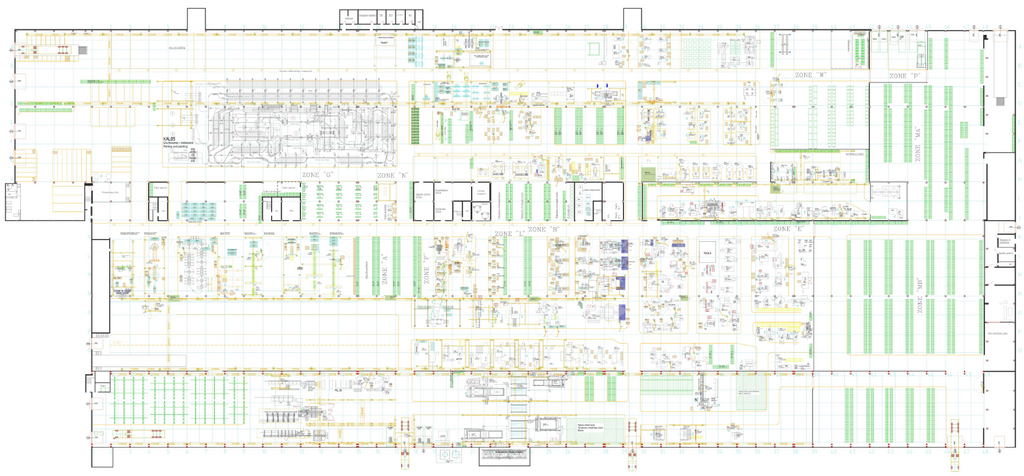
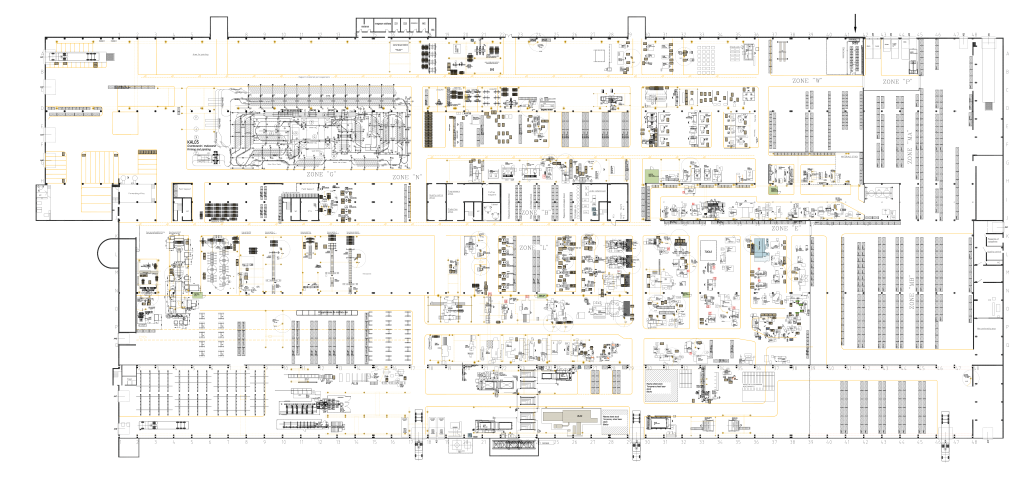
geolook map gone auto!:)

diff --git a/src/main/resources/templates/geolook/map.html b/src/main/resources/templates/geolook/map.html
@@ -6,13 +6,30 @@
 </head>
 <body>
 	<div layout:fragment="script">
-		<!-- SELECTIZE JS -->
-		<script th:src="@{/selectize/js/selectize.min.js}"
-			type="text/javascript"></script>
+	<script type="text/javascript" th:src="@{/js/url.helper.js}"></script>
 		<script>
-			//$('#x3users').selectize();
+		 /*$(document).ready(function() {
+
+	            $(".hoverButton").hover(
+	               function (e) {
+	            	  $("#imageAreaImage").attr("src", getAppUrl() + "/images/map/"+ e.target.id + ".png");
+	               }, 
+					
+	               function (e) {
+	            	   $("#imageAreaImage").attr("src", getAppUrl() + "/images/map/_main_map.png");
+	            	 //  $("#imageArea").css({"background-color":"black"});
+	               }
+	            );
+					
+	         });
+		 */
+		 
+		 function switchImg(id) {
+			$("#imageAreaImage").attr("src", getAppUrl() + "/images/map/"+ id + ".png");		
+		};
 		</script>
 	</div>
+	
 	<div layout:fragment="content">
 	<!-- TITLE -->
 		<div class="row">
@@ -30,133 +47,15 @@
 		</div>
 	<!-- /TITLE -->	
 			<div id="mapModuleContainer">
-				<!-- SHIPMENTS -->
-				<h4 th:text="#{department.shipments}">Category</h4>
-					<span id="J00A" class="btn btn-primary btn-sm margin-bottom-5">
-						<b>J00A</b> - <span th:text="#{department.shipments.warehouse}">Shipments Warehouse</span>
-					</span>					
-					<span id="J00B" class="btn btn-primary btn-sm margin-bottom-5">
-						<b>J00B</b> - <span th:text="#{department.shipments.warehouse}">Shipments Warehouse</span>
-					</span>					
-					<span id="J00C" class="btn btn-primary btn-sm margin-bottom-5">
-						<b>J00C</b> - <span th:text="#{department.outside}">Shipments Warehouse</span>
-					</span>			
-					<span id="YI" class="btn btn-info btn-sm margin-bottom-5">
-						<b>YI</b> - <span th:text="#{department.floor}">Shipments Warehouse</span>
-					</span>			
-			<!-- RECEPTIONS -->
-				<h4 th:text="#{department.receptions}">Category</h4>
-					<span id="P" class="btn btn-primary btn-sm margin-bottom-5">
-						<b>P</b> - <span th:text="#{department.receptions.warehouse}">Receptions Warehouse</span>
-					</span>
-					<span id="S" class="btn btn-primary btn-sm margin-bottom-5">
-						<b>S</b> - <span th:text="#{department.receptions.warehouse}">Receptions Warehouse</span>
-					</span>
-					<span id="N" class="btn btn-primary btn-sm margin-bottom-5">
-						<b>N</b> - <span th:text="#{department.receptions.warehouse}">Receptions Warehouse</span>
-					</span>
-					<span id="Z" class="btn btn-primary btn-sm margin-bottom-5">
-						<b>Z</b> - <span th:text="#{geolook.map.obsolete}">Floor</span>
-					</span>					
-					<span id="XA" class="btn btn-info btn-sm margin-bottom-5">
-						<b>XA</b> - <span th:text="#{department.floor}">Floor</span>
-					</span>		
-					<span id="XB" class="btn btn-info btn-sm margin-bottom-5">
-						<b>XB</b> - <span th:text="#{department.floor}">Floor</span>
-					</span>		
-					<span id="XC" class="btn btn-info btn-sm margin-bottom-5">
-						<b>XC</b> - <span th:text="#{department.floor}">Floor</span>
-					</span>		
-					<span id="XD" class="btn btn-info btn-sm margin-bottom-5">
-						<b>XD</b> - <span th:text="#{department.exchange}">Floor</span>
-					</span>		
-				<!-- PRODUCTION -->
-				<h4  th:text="#{department.production}">Category</h4> 
-					<span id="A" class="btn btn-primary btn-sm margin-bottom-5">
-						<b>A</b> - <span th:text="#{department.axles.assembly}">Production</span>
-					</span>
-					<span id="B" class="btn btn-primary btn-sm margin-bottom-5">
-						<b>B</b> - <span th:text="#{department.driveshafts.assembly}">Production</span>
-					</span>
-					<span id="C" class="btn btn-primary btn-sm margin-bottom-5">
-						<b>C</b> - <span th:text="#{department.presses}">Production</span>
-					</span>
-					<span id="D" class="btn btn-primary btn-sm margin-bottom-5">
-						<b>D</b> - <span th:text="#{department.welding}">Production</span>
-					</span>
-					<span id="E" class="btn btn-primary btn-sm margin-bottom-5">
-						<b>E</b> - <span th:text="#{department.machining}">Production</span>
-					</span>
-					<span id="F" class="btn btn-primary btn-sm margin-bottom-5">
-						<b>F</b> - <span th:text="#{department.axles.assembly}">Production</span>
-					</span>
-					<span id="G" class="btn btn-primary btn-sm margin-bottom-5">
-						<b>G</b> - <span th:text="#{department.axles.assembly}">Production</span>
-					</span>
-					<span id="H" class="btn btn-primary btn-sm margin-bottom-5">
-						<b>H</b> - <span th:text="#{department.suspensions.assembly}">Production</span>
-					</span>
-					<span id="L" class="btn btn-primary btn-sm margin-bottom-5">
-						<b>L</b> - <span th:text="#{department.driveshafts.assembly}">Production</span>
-					</span>
-					<span id="O" class="btn btn-primary btn-sm margin-bottom-5">
-						<b>O</b> - <span th:text="#{department.presses}">Production</span>
-					</span>
-					<span id="R" class="btn btn-primary btn-sm margin-bottom-5">
-						<b>R</b> - <span th:text="#{department.axles.assembly}">Production</span>
-					</span>
-					<span id="W" class="btn btn-primary btn-sm margin-bottom-5">
-						<b>W</b> - <span th:text="#{department.spare.parts}">Production</span>
-					</span>
-					<span id="YA" class="btn btn-info btn-sm margin-bottom-5">
-						<b>YA</b> - <span th:text="#{department.floor}">Floor</span>
-					</span>
-					<span id="YB" class="btn btn-info btn-sm margin-bottom-5">
-						<b>YB</b> - <span th:text="#{department.floor}">Floor</span>
-					</span>
-					<span id="YC" class="btn btn-info btn-sm margin-bottom-5">
-						<b>YC</b> - <span th:text="#{department.floor}">Floor</span>
-					</span>
-					<span id="YD" class="btn btn-info btn-sm margin-bottom-5">
-						<b>YD</b> - <span th:text="#{department.floor}">Floor</span>
-					</span>
-					<span id="YE" class="btn btn-info btn-sm margin-bottom-5">
-						<b>YE</b> - <span th:text="#{department.floor}">Floor</span>
-					</span>
-					<span id="YF" class="btn btn-info btn-sm margin-bottom-5">
-						<b>YF</b> - <span th:text="#{department.floor}">Floor</span>
-					</span>
-					<span id="YG" class="btn btn-info btn-sm margin-bottom-5">
-						<b>YG</b> - <span th:text="#{department.floor}">Floor</span>
-					</span>
-					<span id="YH" class="btn btn-info btn-sm margin-bottom-5">
-						<b>YH</b> - <span th:text="#{department.floor}">Floor</span>
-					</span>
-					<span id="YI" class="btn btn-info btn-sm margin-bottom-5">
-						<b>YI</b> - <span th:text="#{department.floor}">Floor</span>
-					</span>
-					<span id="YJ" class="btn btn-info btn-sm margin-bottom-5">
-						<b>YJ</b> - <span th:text="#{department.floor}">Floor</span>
-					</span>
-					<span id="YK" class="btn btn-info btn-sm margin-bottom-5">
-						<b>YK</b> - <span th:text="#{department.floor}">Floor</span>
-					</span>
-					<span id="YL" class="btn btn-info btn-sm margin-bottom-5">
-						<b>YL</b> - <span th:text="#{department.floor}">Floor</span>
-					</span>
-					<span id="YM" class="btn btn-info btn-sm margin-bottom-5">
-						<b>YM</b> - <span th:text="#{department.floor}">Floor</span>
-					</span>
-					<span id="YN" class="btn btn-info btn-sm margin-bottom-5">
-						<b>YN</b> - <span th:text="#{department.floor}">Floor</span>
-					</span>
-					<span id="YO" class="btn btn-info btn-sm margin-bottom-5">
-						<b>YO</b> - <span th:text="#{department.floor}">Floor</span>
-					</span>
-				<!-- IMAGE AREA - WAREHOUSE MAP -->
-				
+				<div th:each="dir : ${directories}">
+					<h4 th:text="${dir.key}">Category</h4>
+					<span onclick="switchImg(this.id)" th:each="file: ${dir.value}" th:id="|${dir.key}/${file}|" 
+						class="btn btn-primary btn-sm margin-bottom-5 hoverButton">
+						<b><span th:text="${file}"></span></b>
+					</span>	
+				</div>
 				<div id="imageArea" class="margin-top-30">
-					
+					<img id="imageAreaImage" th:src="@{/images/map/_main_map.png}" />
 				</div>
 			</div>
 		</div>

diff --git a/src/main/resources/static/css/map.css b/src/main/resources/static/css/map.css
@@ -2,8 +2,17 @@
 	width: 1024px;
 	height: 476px;
 	margin: 30px auto 0px auto;
+	//background-color: blue;
 	background: url("../images/map/_main_map.png");
     box-shadow: 0 4px 8px 0 rgba(0, 0, 0, 0.2), 0 6px 20px 0 rgba(0, 0, 0, 0.19);
+}
+#imageAreaImage{
+	width: 1024px;
+	height: 476px;
+}
+
+.hoverButton{
+	min-width: 50px;
 }
 
 #mapModuleContainer{
@@ -39,8 +48,8 @@
 #H:hover ~ #imageArea {
   	background: url("../images/map/H.png");
 }
-#J00A:hover ~ #imageArea {
-  	background: url("../images/map/J00A.png");
+#ło:hover ~ #imageArea {
+  	background: url("../images/map/ło.png");
 }
 #J00B:hover ~ #imageArea {
   	background: url("../images/map/J00B.png");

diff --git a/src/main/java/sbs/controller/geolook/GeodeLookupController.java b/src/main/java/sbs/controller/geolook/GeodeLookupController.java
@@ -6,6 +6,8 @@ import java.io.FileInputStream;
 import java.io.FileWriter;
 import java.io.IOException;
 import java.io.OutputStream;
+import java.util.ArrayList;
+import java.util.HashMap;
 import java.util.List;
 import java.util.Locale;
 
@@ -14,14 +16,17 @@ import javax.servlet.http.HttpServletResponse;
 import javax.transaction.Transactional;
 import javax.validation.Valid;
 
+import org.apache.commons.io.FilenameUtils;
 import org.springframework.beans.factory.annotation.Autowired;
 import org.springframework.context.MessageSource;
 import org.springframework.stereotype.Controller;
+import org.springframework.ui.Model;
 import org.springframework.validation.BindingResult;
 import org.springframework.web.bind.annotation.RequestMapping;
 import org.springframework.web.bind.annotation.RequestMethod;
 import org.springframework.web.servlet.mvc.support.RedirectAttributes;
 
+import sbs.controller.upload.UploadController;
 import sbs.helpers.DateHelper;
 import sbs.model.geode.GeolookRow;
 import sbs.service.geode.JdbcOracleGeodeService;
@@ -39,9 +44,27 @@ public class GeodeLookupController {
 	JdbcOracleGeodeService jdbcOracleGeodeService;
 	@Autowired
 	DateHelper dateHelper;
+	@Autowired
+	UploadController uploadController;
 
 	@RequestMapping("/map")
-	public String map(GeodeSearchForm geodeSearchForm) {
+	public String map(Model model) {
+		File[] root = uploadController.listFilesAsObjects("/static/images/map/");
+		HashMap<String, String[]> directories = new HashMap<>();
+		File[] tmpFileList;
+		String[] tmpNamesList;
+		for(File dir: root){
+			if(dir.isDirectory()){
+				tmpFileList = dir.listFiles();
+				tmpNamesList = new String[tmpFileList.length];
+				for(int i=0; i<tmpFileList.length; i++){
+					tmpNamesList[i] = FilenameUtils.removeExtension(tmpFileList[i].getName());
+				}
+				directories.put(dir.getName(), tmpNamesList);
+			}
+			
+		}
+		model.addAttribute("directories", directories);
 		return "geolook/map";
 	}
 

diff --git a/src/main/java/sbs/controller/upload/UploadController.java b/src/main/java/sbs/controller/upload/UploadController.java
@@ -90,6 +90,16 @@ public class UploadController {
 		return files;
 	}
 	
+	public File[] listFilesAsObjects(String path){
+		try {
+			File[] filesList = (new DefaultResourceLoader()).getResource(path).getFile().listFiles();
+			return filesList;
+		} catch (IOException e) {
+			return null;
+		}
+		
+	}
+
 	@RequestMapping(value = "/upload/avatar/{id}",  method = RequestMethod.POST)
 	@Secured("ROLE_ADMIN")
 	public String onUpload(@PathVariable("id") long id, MultipartFile file, RedirectAttributes redirectAttrs,
